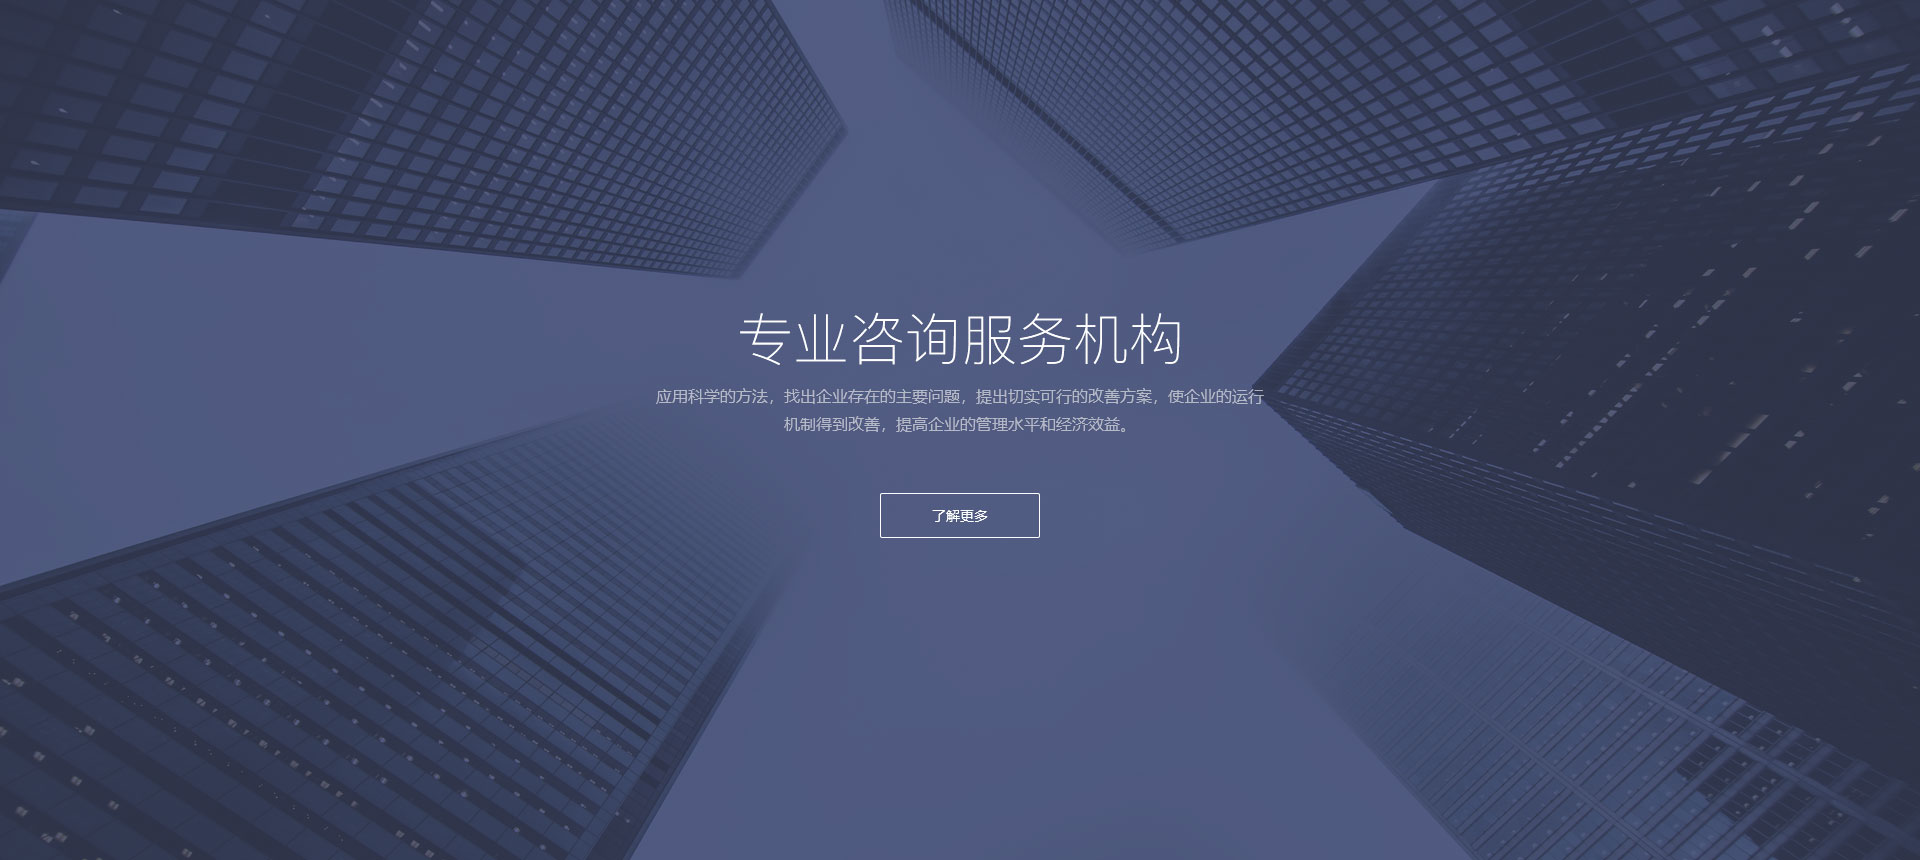
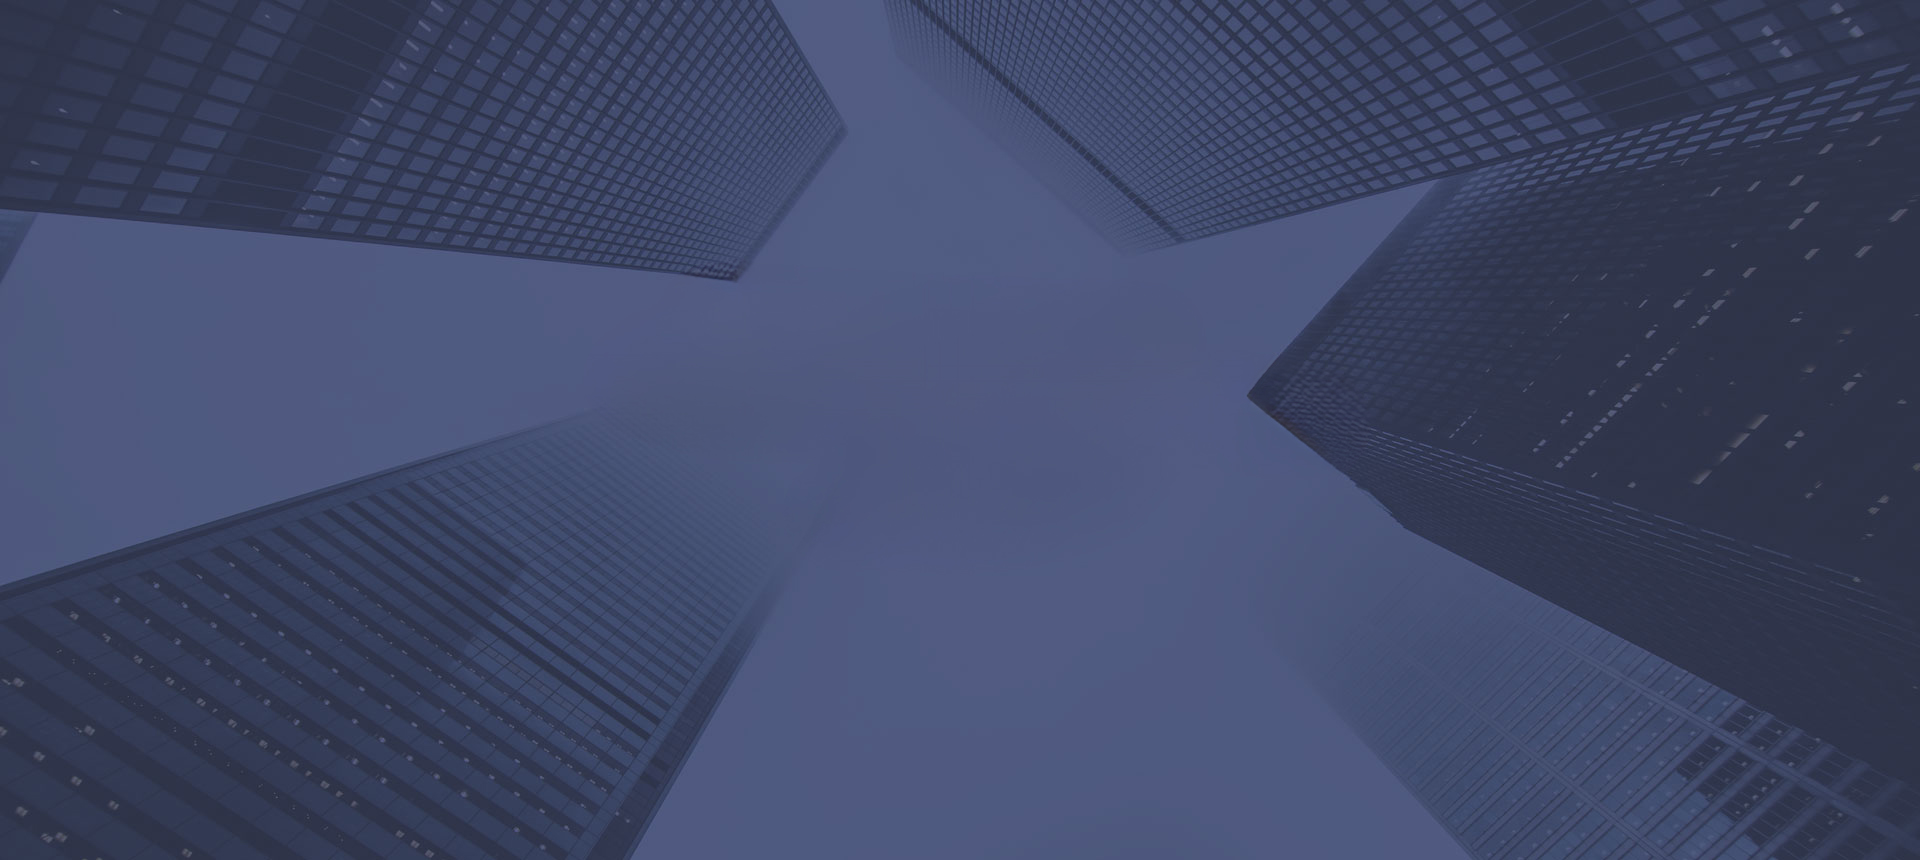
fix: fixed

Changed region(s): [[0.3438, 0.4535, 0.6875, 0.514], [0.375, 0.3628, 0.625, 0.4233]]

diff --git a/src/components/section1.tsx b/src/components/section1.tsx
@@ -2,8 +2,24 @@ import homeBg from "@/assets/home_bg.jpg";
 
 export function Section1() {
   return (
-    <section id="home" className="">
-      <img src={homeBg} alt="homeBg" />
+    <section
+      id="home"
+      className="aspect-1920/860 w-[1200px] flex flex-col justify-center items-center text-white/80"
+      style={{
+        backgroundImage: `url(${homeBg})`,
+        backgroundSize: "cover",
+      }}
+    >
+      <div className="w-[600px] text-center">
+        <div className="text-2xl mb-2">
+          Professional marketing and advertising production promotion agencies
+        </div>
+        <div className="text-sm">
+          Apply scientific methods to identify suitable marketing strategies for
+          businesses, propose feasible solutions to improve their market
+          promotion, and enhance their overall marketing level.
+        </div>
+      </div>
     </section>
   );
 }

diff --git a/src/components/section3.tsx b/src/components/section3.tsx
@@ -1,9 +1,6 @@
 import ad1 from "@/assets/ad1.png";
 import ad2 from "@/assets/ad2.png";
 import ad3 from "@/assets/ad3.png";
-import advantage2 from "@/assets/channel_cover.png";
-import advantage3 from "@/assets/custom_plan.png";
-import advantage4 from "@/assets/effect_ruler.png";
 import { GiComputing, GiPlatform } from "react-icons/gi";
 import { TbCloudComputing, TbMessage2Search } from "react-icons/tb";
 import { RiColorFilterLine } from "react-icons/ri";
